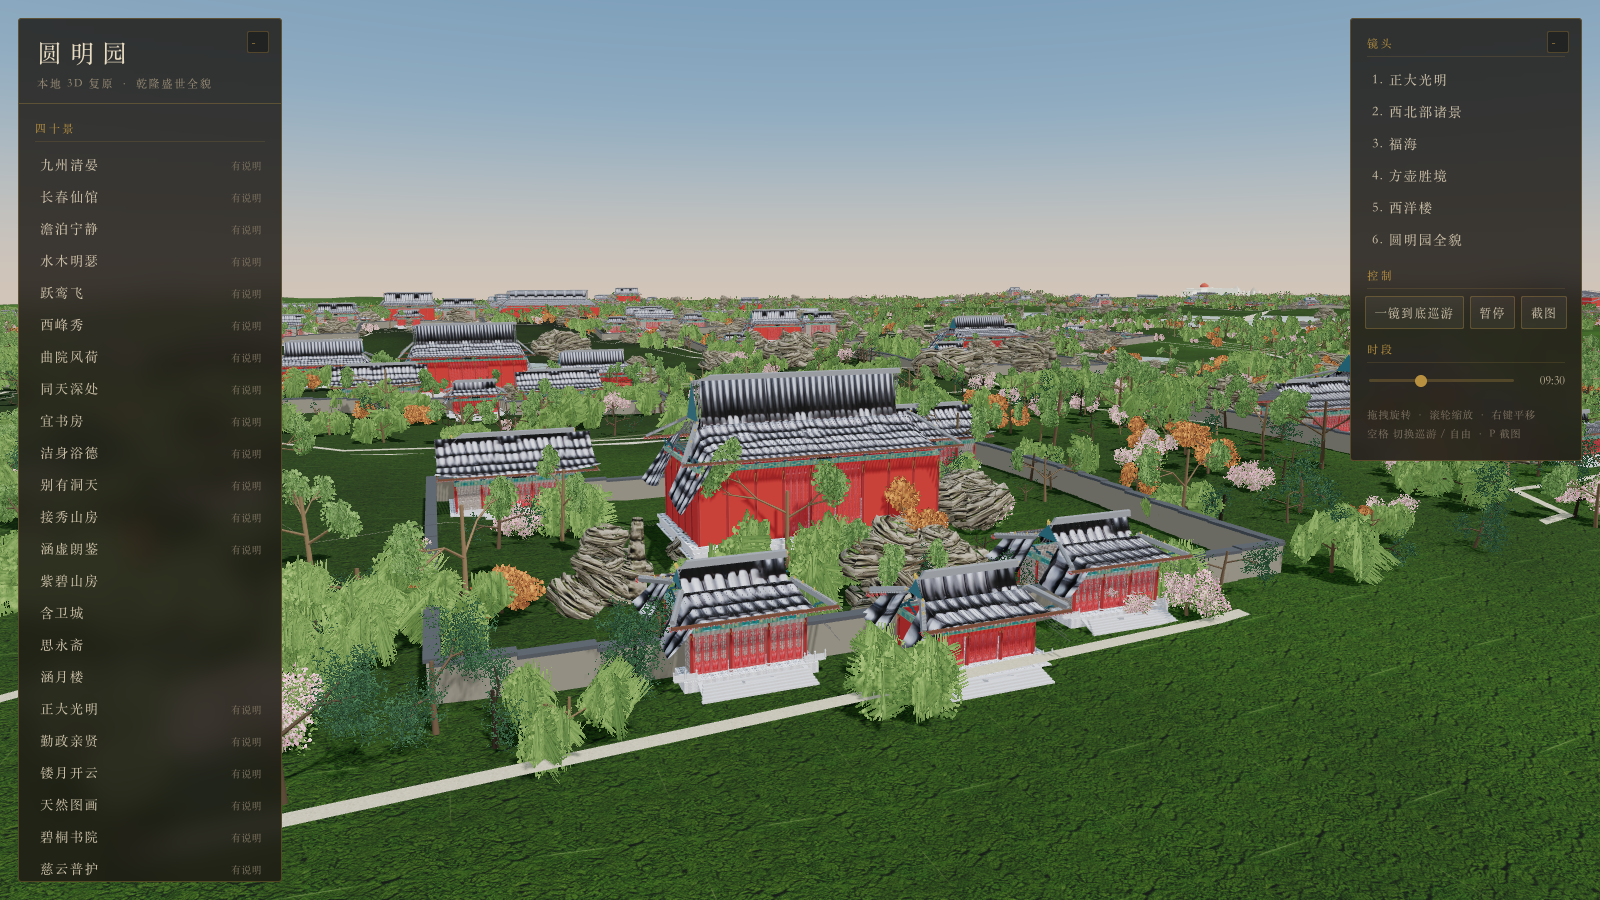
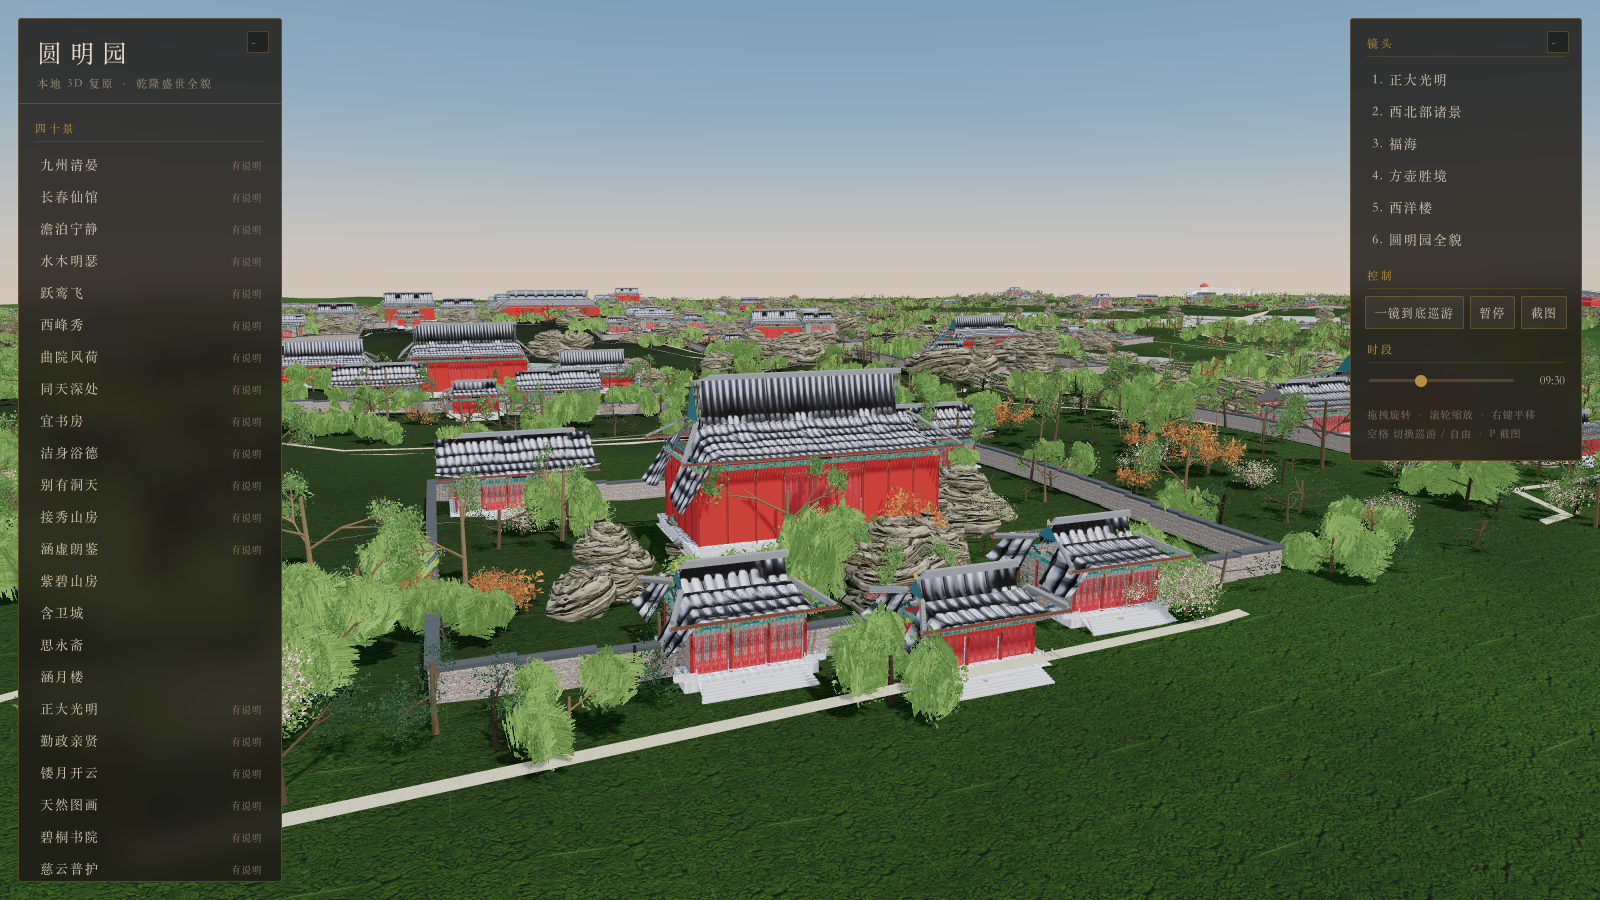
feat(树): 树冠改为可辨认单叶 + 软边卡片
- 贴图里的叶子从 120 片小叶改成 46 片可辨认的单叶（带叶脉的卵形）；
  早前挤在 256px 里，近看就是一团糊
- 卡片边缘做径向透明衰减，消除"方形贴图"的硬直边
- 材质开 alphaToCoverage：用 MSAA 做 alpha 裁剪，边缘平滑且无需透明排序
- 每簇卡片 3 片 → 5 片且朝向完全错开，树冠轮廓碎得开
- 松针加长，近看能分出针

Changed region(s): [[0.1562, 0.3111, 1.0, 0.8711], [0.0, 0.3422, 0.0312, 0.6844]]

diff --git a/src/scene/trees.js b/src/scene/trees.js
@@ -30,7 +30,9 @@ function mulberry32(seed) {
 
 /** 画一个不规则叶簇（很多小叶/针束叠在一起） */
 function drawCluster(g, cx, cy, r, rnd, palette, kind) {
-  const n = kind === 'needle' ? 190 : 120;
+  // 叶子数量少而大 —— 早前 120 片小叶挤在 256px 里，
+  // 放大到近景就是一团糊；改成可辨认的单叶
+  const n = kind === 'needle' ? 120 : kind === 'flower' ? 34 : 46;
   for (let i = 0; i < n; i++) {
     const a = rnd() * Math.PI * 2;
     const rr = Math.pow(rnd(), 0.62) * r;
@@ -40,8 +42,8 @@ function drawCluster(g, cx, cy, r, rnd, palette, kind) {
     g.globalAlpha = 0.5 + rnd() * 0.5;
     g.fillStyle = c;
     if (kind === 'needle') {
-      // 针叶束：一撮细线
-      const len = r * (0.1 + rnd() * 0.16);
+      // 针叶束：一撮细线（稍长，近看能分出针）
+      const len = r * (0.14 + rnd() * 0.22);
       const ang = rnd() * Math.PI * 2;
       g.strokeStyle = c;
       g.lineWidth = 1.1 + rnd();
@@ -69,15 +71,25 @@ function drawCluster(g, cx, cy, r, rnd, palette, kind) {
         g.fill();
       }
     } else {
-      // 叶片
-      const s = r * (0.07 + rnd() * 0.09);
+      // 单片叶子：带尖端的卵形，能看出叶脉
+      const s = r * (0.11 + rnd() * 0.1);
       const ang = rnd() * Math.PI * 2;
       g.save();
       g.translate(x, y);
       g.rotate(ang);
       g.beginPath();
-      g.ellipse(0, 0, s, s * 0.55, 0, 0, Math.PI * 2);
+      g.moveTo(-s, 0);
+      g.quadraticCurveTo(0, -s * 0.72, s, 0);
+      g.quadraticCurveTo(0, s * 0.72, -s, 0);
+      g.closePath();
       g.fill();
+      // 叶脉
+      g.strokeStyle = 'rgba(30,44,24,0.45)';
+      g.lineWidth = Math.max(0.6, s * 0.09);
+      g.beginPath();
+      g.moveTo(-s * 0.9, 0);
+      g.lineTo(s * 0.9, 0);
+      g.stroke();
       g.restore();
     }
   }
@@ -201,10 +213,31 @@ function makeFoliageTexture(species, seed) {
   return finishTex(c);
 }
 
+/**
+ * 边缘径向透明衰减：否则卡片边界会切出一条硬直边，
+ * 近看就是"方形贴图"。
+ */
+function applyEdgeFalloff(c) {
+  const S = c.width;
+  const g = c.getContext('2d');
+  const grd = g.createRadialGradient(
+    S * 0.5, S * 0.5, S * 0.16,
+    S * 0.5, S * 0.5, S * 0.52
+  );
+  grd.addColorStop(0, 'rgba(0,0,0,1)');
+  grd.addColorStop(0.68, 'rgba(0,0,0,0.9)');
+  grd.addColorStop(1, 'rgba(0,0,0,0)');
+  g.globalCompositeOperation = 'destination-in';
+  g.fillStyle = grd;
+  g.fillRect(0, 0, S, S);
+  g.globalCompositeOperation = 'source-over';
+}
+
 function finishTex(c) {
+  applyEdgeFalloff(c);
   const tex = new THREE.CanvasTexture(c);
   tex.colorSpace = THREE.SRGBColorSpace;
-  tex.anisotropy = 4;
+  tex.anisotropy = 8;
   tex.wrapS = tex.wrapT = THREE.ClampToEdgeWrapping;
   return tex;
 }
@@ -281,10 +314,18 @@ function growBranches(opts) {
 /** 一片树冠卡片：三片交叉面片 */
 function makeCard(pos, size, rnd, species) {
   const parts = [];
-  for (let k = 0; k < 3; k++) {
+  // 五片、朝向全错开：轮廓才碎得开，不会看成一块板
+  for (let k = 0; k < 5; k++) {
     const p = new THREE.PlaneGeometry(size * 2, size * 2);
     p.rotateZ(rnd() * Math.PI);
-    p.rotateY(k * (Math.PI / 3) + rnd() * 0.4);
+    p.rotateY(rnd() * Math.PI);
+    p.rotateX((rnd() - 0.5) * 0.8);
+    // 每片略偏一点，避免五片完全重合
+    p.translate(
+      (rnd() - 0.5) * size * 0.7,
+      (rnd() - 0.5) * size * 0.5,
+      (rnd() - 0.5) * size * 0.7
+    );
     p.translate(pos.x, pos.y, pos.z);
     parts.push(p);
   }
@@ -488,8 +529,10 @@ export function buildTrees(sceneData, heightAt) {
       const tex = makeFoliageTexture(species, 1000 + v * 97 + species.length * 13);
       const leafMat = new THREE.MeshStandardMaterial({
         map: tex,
-        alphaTest: 0.42,
+        alphaTest: 0.35,
         transparent: false,
+        // 用 MSAA 做 alpha 裁剪：边缘平滑，又不需要透明排序
+        alphaToCoverage: true,
         side: THREE.DoubleSide,
         roughness: 0.88,
         metalness: 0,

diff --git a/AGENTS.md b/AGENTS.md
@@ -65,7 +65,7 @@ X → 东     Z → 南     Y → 上
 - 步道：全部合并成**一个** Mesh。
 - 院墙：分段贴地但**整院合并**成 2 个 Mesh（墙身 + 压顶）。
 - 改动后跑一次 `npm run dev`，看控制台里的 `draw calls` 与三角面数，
-  **当前基线：约 7.9M 三角面 / 410 draw calls；场景构建约 9s。**
+  **当前基线：约 10.9M 三角面 / 410 draw calls；场景构建约 9~15s。**
   数量级突变要查清楚原因（合并丢失是最常见的原因）。
 
 ## 4.1 视觉保真度是硬要求
@@ -75,7 +75,7 @@ X → 东     Z → 南     Y → 上
 
 | 项 | 要求 |
 |---|---|
-| 树 | 有树干与分枝结构、树冠用 alpha 贴图（不能是圆锥/球）、每树种轮廓可辨 |
+| 树 | 有树干与分枝结构；树冠贴图里是**可辨认的单叶**（不是一团糊）；卡片边缘要透明衰减，不能切出方形硬边；每树种轮廓可辨 |
 | 假山 | 层叠咬合的石块，不能是锥体；太湖石要瘦 |
 | 屋面 | **做成真瓦作**：筒瓦是半圆管、板瓦垫底、檐口排瓦当滴水、脊用小筒瓦垒；翼角起翘；斗栱在檐下可见 |
 | 隔扇/窗 | 格心用真实棂条建模（步步锦），不能只贴一张格子图 |
